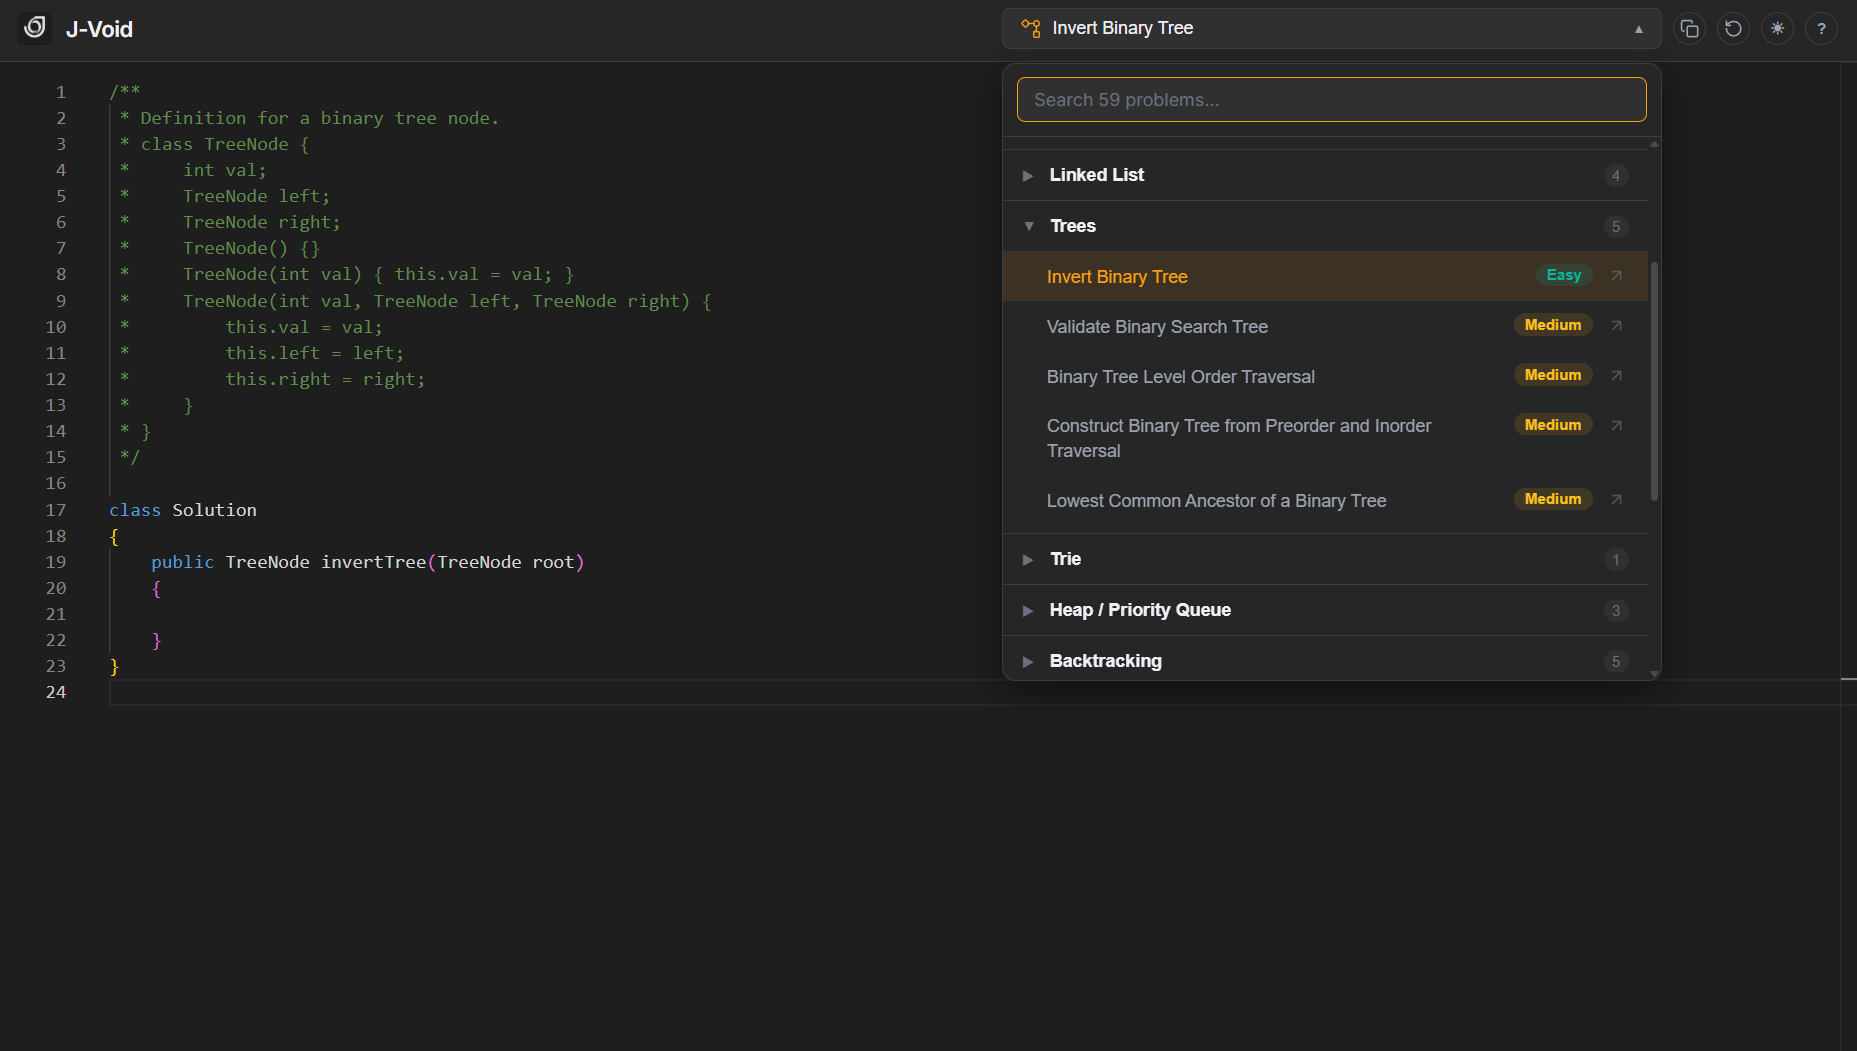
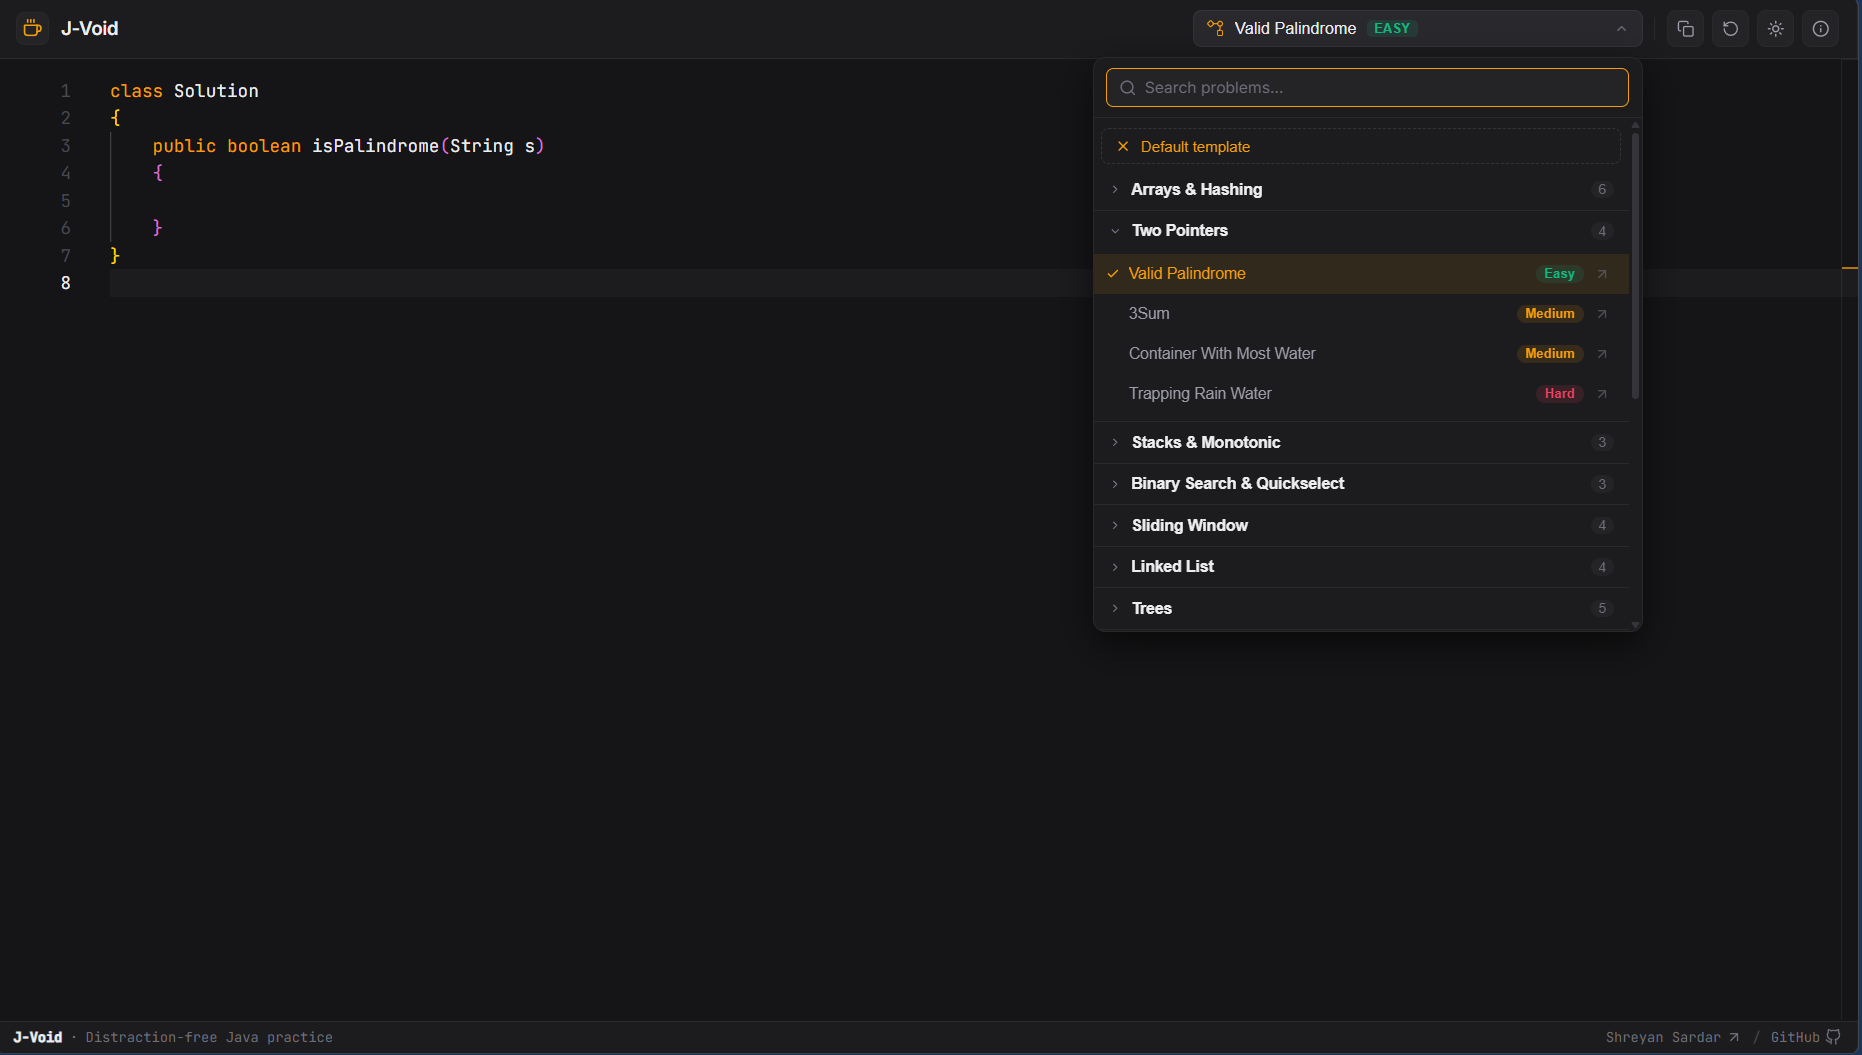
refactor: tune dark palette, add problem active state, and update preview assets

diff --git a/frontend-app/src/components/QuestionSelector.jsx b/frontend-app/src/components/QuestionSelector.jsx
@@ -356,50 +356,68 @@ const QuestionSelector = ({
 
                                 {(expandedCategories[category.id] || searchTerm) && (
                                     <div className="questions-list">
-                                        {category.questions.map((question) => (
-                                            <button
-                                                key={question.id}
-                                                className={`question-item ${selectedId === question.id ? "selected" : ""}`}
-                                                onClick={() => handleSelect(question)}
-                                            >
-                                                <span className="question-title">{question.title}</span>
-                                                <span
-                                                    className={`difficulty-badge ${getDifficultyClass(question.difficulty)}`}
+                                        {category.questions.map((question) => {
+                                            const isSelected = activeQuestionId === question.id;
+                                            return (
+                                                <button
+                                                    key={question.id}
+                                                    className={`question-item ${isSelected ? "selected" : ""}`}
+                                                    onClick={() => handleSelect(question)}
                                                 >
-                                                    {question.difficulty}
-                                                </span>
-                                                {question.url && (
-                                                    <a
-                                                        href={question.url}
-                                                        target="_blank"
-                                                        rel="noopener noreferrer"
-                                                        className="leetcode-link"
-                                                        onClick={(e) => e.stopPropagation()}
-                                                        title="Open on LeetCode"
-                                                    >
+                                                    {isSelected && (
                                                         <svg
+                                                            className="selected-check-icon"
+                                                            width="11"
+                                                            height="11"
                                                             viewBox="0 0 24 24"
                                                             fill="none"
-                                                            xmlns="http://www.w3.org/2000/svg"
+                                                            stroke="currentColor"
+                                                            strokeWidth="2.5"
+                                                            strokeLinecap="round"
+                                                            strokeLinejoin="round"
                                                         >
-                                                            <path
-                                                                d="M7 17L17 7"
-                                                                stroke="currentColor"
-                                                                strokeWidth="2"
-                                                                strokeLinecap="round"
-                                                            />
-                                                            <path
-                                                                d="M7 7H17V17"
-                                                                stroke="currentColor"
-                                                                strokeWidth="2"
-                                                                strokeLinecap="round"
-                                                                strokeLinejoin="round"
-                                                            />
+                                                            <polyline points="20 6 9 17 4 12"></polyline>
                                                         </svg>
-                                                    </a>
-                                                )}
-                                            </button>
-                                        ))}
+                                                    )}
+                                                    <span className="question-title">{question.title}</span>
+                                                    <span
+                                                        className={`difficulty-badge ${getDifficultyClass(question.difficulty)}`}
+                                                    >
+                                                        {question.difficulty}
+                                                    </span>
+                                                    {question.url && (
+                                                        <a
+                                                            href={question.url}
+                                                            target="_blank"
+                                                            rel="noopener noreferrer"
+                                                            className="leetcode-link"
+                                                            onClick={(e) => e.stopPropagation()}
+                                                            title="Open on LeetCode"
+                                                        >
+                                                            <svg
+                                                                viewBox="0 0 24 24"
+                                                                fill="none"
+                                                                xmlns="http://www.w3.org/2000/svg"
+                                                            >
+                                                                <path
+                                                                    d="M7 17L17 7"
+                                                                    stroke="currentColor"
+                                                                    strokeWidth="2"
+                                                                    strokeLinecap="round"
+                                                                />
+                                                                <path
+                                                                    d="M7 7H17V17"
+                                                                    stroke="currentColor"
+                                                                    strokeWidth="2"
+                                                                    strokeLinecap="round"
+                                                                    strokeLinejoin="round"
+                                                                />
+                                                            </svg>
+                                                        </a>
+                                                    )}
+                                                </button>
+                                            );
+                                        })}
                                     </div>
                                 )}
                             </div>

diff --git a/frontend-app/src/components/CodeEditor.jsx b/frontend-app/src/components/CodeEditor.jsx
@@ -14,24 +14,24 @@ const CodeEditor = ({ code, onChange, theme = "dark", onCursorChange }) => {
       base: "vs-dark",
       inherit: true,
       rules: [
-        { token: "comment", foreground: "676775", fontStyle: "italic" },
+        { token: "comment", foreground: "6d6e7a", fontStyle: "italic" },
         { token: "keyword", foreground: "f59e0b" },
         { token: "string", foreground: "10b981" },
         { token: "number", foreground: "38bdf8" },
         { token: "type", foreground: "a78bfa" },
       ],
       colors: {
-        "editor.background": "#121316",
+        "editor.background": "#151517",
         "editor.foreground": "#ededf0",
-        "editorLineNumber.foreground": "#42434d",
+        "editorLineNumber.foreground": "#484952",
         "editorLineNumber.activeForeground": "#ededf0",
         "editorCursor.foreground": "#f59e0b",
-        "editor.lineHighlightBackground": "#17181c",
-        "editorGutter.background": "#121316",
-        "editorIndentGuide.background": "#1d1f25",
-        "editorIndentGuide.activeBackground": "#2e313b",
-        "editor.selectionBackground": "#2a2e3d",
-        "editor.inactiveSelectionBackground": "#1e212b",
+        "editor.lineHighlightBackground": "#1c1c1f",
+        "editorGutter.background": "#151517",
+        "editorIndentGuide.background": "#212125",
+        "editorIndentGuide.activeBackground": "#323238",
+        "editor.selectionBackground": "#2a2e38",
+        "editor.inactiveSelectionBackground": "#20232a",
       },
     });
 

diff --git a/frontend-app/src/App.css b/frontend-app/src/App.css
@@ -353,6 +353,7 @@
 }
 
 .question-item {
+  position: relative;
   display: flex;
   align-items: center;
   justify-content: space-between;
@@ -374,9 +375,32 @@
 }
 
 .question-item.selected {
-  background-color: rgba(245, 158, 11, 0.08);
-  color: var(--accent);
+  background-color: rgba(245, 158, 11, 0.1);
+  color: var(--text-primary);
   font-weight: 500;
+}
+
+[data-theme="light"] .question-item.selected {
+  background-color: rgba(217, 119, 6, 0.09);
+}
+
+.question-item.selected:hover {
+  background-color: rgba(245, 158, 11, 0.15);
+}
+
+[data-theme="light"] .question-item.selected:hover {
+  background-color: rgba(217, 119, 6, 0.13);
+}
+
+.question-item.selected .question-title {
+  color: var(--accent);
+}
+
+.selected-check-icon {
+  position: absolute;
+  left: 10px;
+  color: var(--accent);
+  flex-shrink: 0;
 }
 
 .question-title {

diff --git a/frontend-app/src/index.css b/frontend-app/src/index.css
@@ -4,17 +4,17 @@
    CSS Variables - Refined Warm Minimal Palette
    ============================================ */
 :root {
-  /* Dark Mode (Default) - Warm Charcoal / Obsidian */
-  --bg-primary: #121316;
-  --bg-secondary: #191a1e;
-  --bg-tertiary: #222328;
+  /* Dark Mode (Default) - Deep Obsidian Charcoal */
+  --bg-primary: #151517;
+  --bg-secondary: #1c1c1f;
+  --bg-tertiary: #242427;
   --text-primary: #ededf0;
-  --text-secondary: #9b9ba7;
-  --text-muted: #676775;
+  --text-secondary: #9c9da8;
+  --text-muted: #6d6e7a;
   --accent: #f59e0b;
   --accent-hover: #fbbf24;
-  --border-color: #27282f;
-  --border-light: #34353f;
+  --border-color: #29292d;
+  --border-light: #34343a;
 
   /* Difficulty Colors */
   --easy: #10b981;

diff --git a/README.md b/README.md
@@ -2,7 +2,8 @@
 
 A distraction-free, in-browser Java editor for practicing coding interview patterns. Built as the companion editor for [Shreyan's Arc](https://shreyans-arc.vercel.app/), a NeetCode-style DSA roadmap.
 
-[Live Demo](https://j-void.vercel.app) · [Companion Roadmap](https://shreyans-arc.vercel.app)
+[![Live Demo](https://img.shields.io/badge/Live_Demo-j--void.vercel.app-blue?style=flat-square)](https://j-void.vercel.app/)
+[![Companion App](https://img.shields.io/badge/Companion_App-Shreyan's_Arc-purple?style=flat-square)](https://shreyans-arc.vercel.app/)
 
 ---
 
